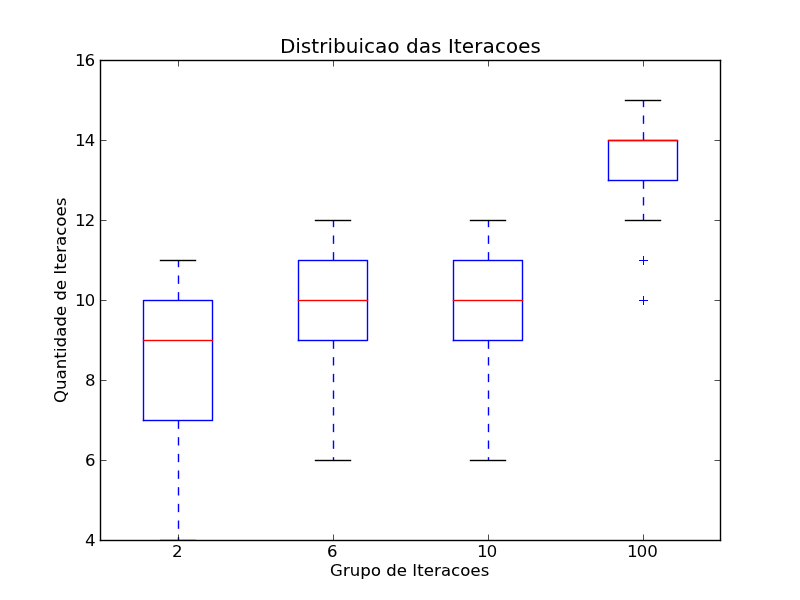
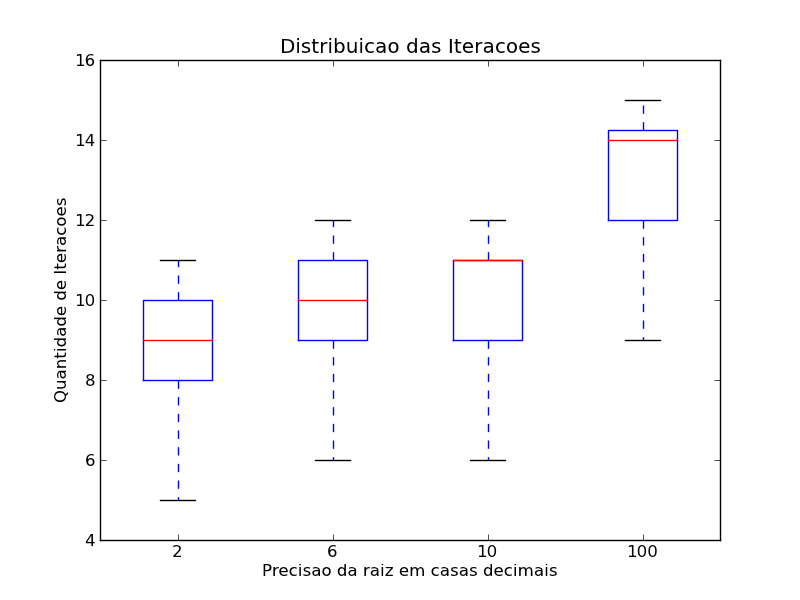
Mudança pedida pelo professor Branco.
Mudei a geração do x0 ("chute" inicial) para a raiz de N fixo para cada
N.

diff --git a/MetodoDeNewton.py b/MetodoDeNewton.py
@@ -10,32 +10,30 @@ Curso:      Análise Matemática para Aplicações
 Professor:  Antônio Carlos Saraiva Branco 
 Aluno:      Pablo Cerdeira
 Exercício:
-Implemente o metodo de Newton para encontrar a raiz de dado numero em uma funcao
+Implemente o método de Newton para encontrar a raiz de dado número em uma função
 -----------    
 '''
 
 # variáveis globais
 Ns = sample(xrange(1000),100)                                                   # Lista com 100 Ns aleatorios ate 1000
-indice = Decimal(2)
-precs = [2,6,10,100]
-totIteracoes = []
+indice = Decimal(2)                                                             # 2 para raiz quadrada, 3 para cúbica ...
+precs = [2,6,10,100]                                                            # Precisões a serem buscadas
+totIteracoes = []                                                               # Histórico do contador de iterações
 
 def main():
     for N in Ns: 
-        raizes,iteracoes,x0s = [],[],[]
-        for prec in precs: 
-            x0,iteracs,raiz = newton(indice,N,prec)
+        raizes,iteracoes = [],[]
+        x0 = randint(1,N-1)
+        for prec in precs:                                                      # Loop para cada uma das precisões
+            iteracs,raiz = newton(indice,N,prec,x0)                             # chama newton() para o cálculo da raiz
             raizes.append(raiz)
             iteracoes.append(iteracs)
-            x0s.append(x0)
             totIteracoes.append(iteracoes)
-        out(N,indice,raizes,precs,x0s,iteracoes) 
+        out(N,indice,raizes,precs,x0,iteracoes) 
     final()
         
-def newton(indice,a,precisao):
+def newton(indice,a,precisao,x0):
     if a == 1: exit
-    x0 = randint(1,a-1)
-    xOriginal = x0
     resultados = [0,1]
     getcontext().prec = precisao+2
 
@@ -43,20 +41,21 @@ def newton(indice,a,precisao):
         resultados.append(Decimal(1/indice*((indice-1)*x0+(a/x0**(indice-1)))))
         x0 = resultados[-1]
     
-    # Retorna o rand, as iteracoes e a raiz.
-    return xOriginal, len(resultados), x0
+    # Retorna as iterações e a raiz.
+    return len(resultados), x0
 
-def out(N,indice,raizes,precs,x0s,iteracoes):
+def out(N,indice,raizes,precs,x0,iteracoes):
     print ' '
     print ' '
     print '******************************************************************'
     print 'N:         %d' % N
     print 'Indice:    %d' % indice
+    print 'Inicial:   %d' % x0
     i = 0
     for raiz in raizes:                
         print '------------------------------------------------------------------'
         print 'Raiz:      %s' % raiz
-        print 'Precisao:  %d  -  Inicial:  %d  -  Iteracoes:  %d' % (precs[i],x0s[i],iteracoes[i])
+        print 'Precisao:  %d -  Iteracoes:  %d' % (precs[i],iteracoes[i])
         i+=1
     print '------------------------------------------------------------------'
     
@@ -80,7 +79,7 @@ def final():
     ticks = range(1,i+1)
     pylab.boxplot(iteracoes)
     pylab.title('Distribuicao das Iteracoes')
-    pylab.xlabel('Grupo de Iteracoes')
+    pylab.xlabel('Precisao da raiz em casas decimais')
     pylab.ylabel('Quantidade de Iteracoes')
     pylab.xticks(ticks,precs)
     pylab.show()
